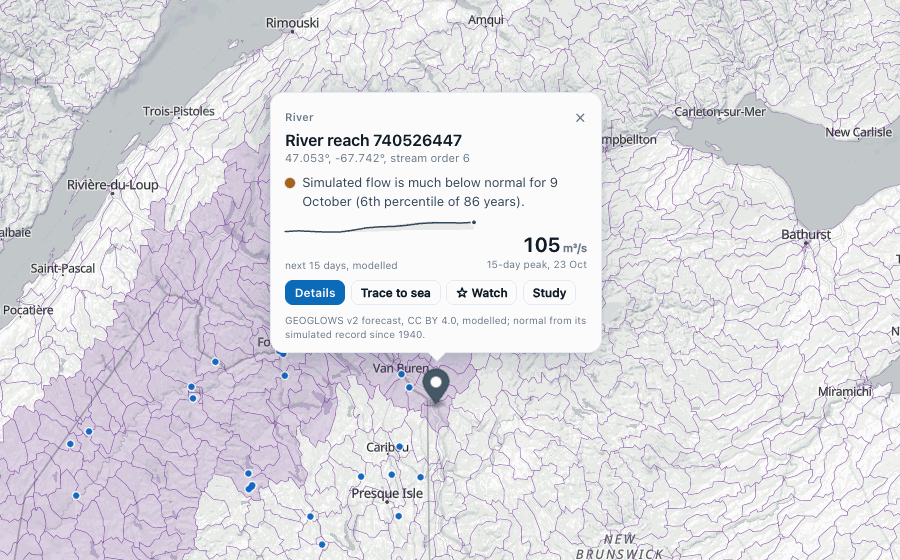
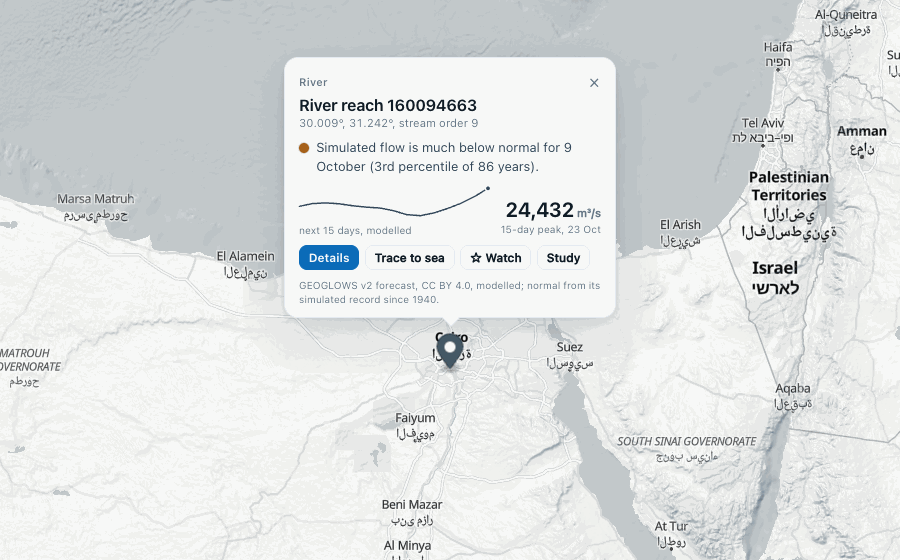
Map card: take the river a missed click names, forecast on its own range, Esc from map tools (#548)
A click that misses the river (no stream within 1 km, easy at a world zoom) now offers the larger or
nearest river in the card and takes it in one click (river.js takeOfferedReach, the offer's own path).
The nearest-gauge figure shows only within 50 km. The 15-day forecast sparkline is drawn on its own
range (at least a fifth of its peak), so a rise or fall shows instead of a flat line at the top. Escape
also closes the card from the map's own buttons (focus stays on the panel handle after folding), and
aria-describedby is removed rather than left empty.

diff --git a/explorer/src/map-card.js b/explorer/src/map-card.js
@@ -21,7 +21,7 @@ import { call, callLight } from "./worker-client.js?v=__BUILD__";
 import { ensureNowStatus } from "./now-map.js?v=__BUILD__";
 import { statusClass } from "./now-core.js?v=__BUILD__";
 import { snapLine } from "./river-core.js?v=__BUILD__";
-import { traceRiver } from "./river.js?v=__BUILD__";
+import { takeOfferedReach, traceRiver } from "./river.js?v=__BUILD__";
 import { shapeSvg } from "./shapes.js?v=__BUILD__";
 import {
   cardNumber, dayMonth, forecastPeak, lastDays, latestValue, placeCard, prettyUnit, snapshotSentence, sparkPaths,
@@ -31,6 +31,7 @@ const STATUS_VARIABLES = new Set(["discharge", "water_level", "groundwater_level
 const SNAPSHOT_CREDIT = "AquaScope daily status snapshot";
 const GEOGLOWS_SHORT = "GEOGLOWS v2 forecast, CC BY 4.0, modelled";
 const SHEET_QUERY = "(max-width: 640px)";
+const NEAR_GAUGE_KM = 50;   // past this the nearest gauge says nothing about the place, so the card leaves it out
 const reducedMotion = () => Boolean(globalThis.matchMedia && matchMedia("(prefers-reduced-motion: reduce)").matches);
 const sheetMode = () => !state.mapOk || Boolean(globalThis.matchMedia && matchMedia(SHEET_QUERY).matches);
 
@@ -58,7 +59,8 @@ const el = () => $("map-card");
  *   what, whatIcon,           the kicker above the title ("Gauge", "Flood cell") and an optional SVG
  *   title, sub,               the name and one muted line under it
  *   status: { text, color } | { pending: "Reading…" } | null     the sentence, with a class colour
- *   spark: { v, band: {lo, hi}, label } | { pending, label } | { empty: "why" } | null
+ *   spark: { v, band: {lo, hi}, label, fromZero } | { pending, label } | { empty: "why" } | null
+ *                             (fromZero: false scales a forecast to its own range; a record starts at zero)
  *   figure: { value, unit, label } | { pending } | null           the one key number
  *   note,                     an extra line (for example what a trace found)
  *   credit,                   where the numbers come from, with the licence
@@ -180,7 +182,8 @@ function render() {
     </div>
     ${s.credit ? `<p class="mc-credit">${escapeHtml(s.credit)}</p>` : ""}
     <span class="mc-tail" aria-hidden="true"></span>`;
-  card.setAttribute("aria-describedby", s.status && !s.status.pending ? "mc-status" : "");
+  if (s.status && !s.status.pending) card.setAttribute("aria-describedby", "mc-status");
+  else card.removeAttribute("aria-describedby");
   card.querySelector('[data-act="close"]').addEventListener("click", () => closeCard());
   const det = card.querySelector('[data-act="details"]');
   if (det) det.addEventListener("click", () => s.details());
@@ -203,7 +206,7 @@ function drawSpark() {
   if (!sp || !box || !sp.v) return;
   const w = Math.max(120, Math.round(box.clientWidth || 180));
   const h = 40;
-  const p = sparkPaths({ v: sp.v, band: sp.band || null }, { w, h, pad: 4 });
+  const p = sparkPaths({ v: sp.v, band: sp.band || null }, { w, h, pad: 4, fromZero: sp.fromZero !== false });
   if (!p) { box.outerHTML = `<p class="mc-spark-empty muted">Too few values to draw.</p>`; return; }
   box.innerHTML = `<svg width="${w}" height="${h}" viewBox="0 0 ${w} ${h}" aria-hidden="true">` +
     (p.band ? `<path class="mc-band" d="${p.band}"/>` : "") +
@@ -289,6 +292,7 @@ function keepAnchorAboveSheet() {
 
 // ── the selection's card: a gauge ───────────────────────────────────────────
 
+const distanceWords = (m) => (m >= 1000 ? `${(m / 1000).toFixed(1)} km` : `${Math.round(m)} m`);
 const coords = (lat, lon) => `${Number(lat).toFixed(3)}°, ${Number(lon).toFixed(3)}°`;
 
 function openDetails(surface, tab) {
@@ -501,14 +505,30 @@ function onSnap(m, snap) {
     return;
   }
   if (!snap.snapped) {
+    // No stream within the snap's reach of the click (easy at a world zoom): offer the river the snap found,
+    // in one click, rather than send the reader to the panel for it.
+    const which = snap.larger ? "larger" : snap.nearest ? "nearest" : null;
     const near = nearestGauge(m.lat, m.lon);
+    const take = which ? {
+      id: "reach", label: which === "larger" ? "Use the larger river" : "Use the nearest river",
+      title: `River reach ${snap[which].river_id}, ${distanceWords(snap[which].distance_m)} away`,
+      onClick: () => {
+        const reach = takeOfferedReach("pt", which);
+        if (!reach || model !== m) return;
+        onSnap(m, { snapped: true, river_id: reach.river_id, snap_lat: reach.lat, snap_lon: reach.lon,
+          strahler_order: reach.strahler_order });
+      },
+    } : null;
     updateCard(m.id, {
       status: { text: snapLine(snap), muted: true },
-      spark: { empty: "No mapped river here, so no river forecast. Details has the climate and the catchment." },
-      figure: near ? { value: near.d < 10 ? near.d.toFixed(1) : String(Math.round(near.d)), unit: " km",
+      spark: null,
+      // The nearest gauge, when it is near enough to matter.
+      figure: near && near.d <= NEAR_GAUGE_KM ? { value: near.d < 10 ? near.d.toFixed(1) : String(Math.round(near.d)), unit: " km",
         label: `to the nearest gauge, ${near.r.name || near.r.station_id}` } : null,
-      buttons: (m.spec.buttons || []).map((b) => (b.id === "trace" ? { ...traceButton("pt", { ready: false }), disabled: true,
-        title: "No river here to trace" } : b)),
+      buttons: [
+        ...(take ? [take] : []),
+        ...(m.spec.buttons || []).filter((b) => b.id !== "trace" && b.id !== "reach"),
+      ],
     });
     return;
   }
@@ -519,6 +539,9 @@ function onSnap(m, snap) {
     status: { pending: "Reading the 15-day forecast…" },
     credit: GEOGLOWS_SHORT,
     details: () => openDetails("panel-point", "now"),
+    // A reach taken from the offer above gets its Trace button back.
+    buttons: [traceButton("pt", { ready: Boolean(m.reach) }),
+      ...(m.spec.buttons || []).filter((b) => b.id !== "trace" && b.id !== "reach")],
   });
   void loadForecast(m, snap);
 }
@@ -536,7 +559,7 @@ async function loadForecast(m, snap) {
   if (g && !g.error && Array.isArray(g.mean)) {
     const peak = forecastPeak(g);
     updateCard(m.id, {
-      spark: { v: g.mean, band: { lo: g.p25 || [], hi: g.p75 || [] }, label: "next 15 days, modelled",
+      spark: { v: g.mean, band: { lo: g.p25 || [], hi: g.p75 || [] }, label: "next 15 days, modelled", fromZero: false,
         alt: "GEOGLOWS ensemble mean flow for the next 15 days, with the middle half of the ensemble shaded" },
       figure: peak ? { value: cardNumber(peak.value), unit: " m³/s", label: `15-day peak, ${dayMonth(peak.date, { short: true })}` } : null,
       status: { pending: "Comparing with this river's 86 simulated years…" },
@@ -634,7 +657,8 @@ export function initMapCard() {
   document.addEventListener("keydown", (e) => {
     if (e.key !== "Escape" || !shown) return;
     const a = document.activeElement;
-    const fromMap = !a || a === document.body || (a.closest && a.closest("#map"));
+    // ... and from the map's own buttons (the panel handle keeps focus after folding the panel).
+    const fromMap = !a || a === document.body || (a.closest && a.closest("#map, .map-tool"));
     if (!(card.contains(a) || fromMap)) return;
     e.preventDefault();
     closeCard();

diff --git a/explorer/src/map-card-core.js b/explorer/src/map-card-core.js
@@ -113,16 +113,27 @@ export const prettyUnit = (u) => ({ "m3/s": "m³/s", "ft3/s": "ft³/s" }[u] || u
 
 // The sparkline as SVG path data, in a `w` x `h` box with `pad` pixels kept clear at the top and bottom.
 // `line` is the series (gaps break it), `band` an optional {lo, hi} pair drawn as one filled shape, and
-// `area` the same line closed down to the bottom (for a record, which has no band). Values are scaled from
-// zero when they never go below it, so a dry spell sits low rather than filling the box.
-export function sparkPaths({ v = [], band = null }, { w = 240, h = 44, pad = 3 } = {}) {
+// `area` the same line closed down to the bottom (for a record, which has no band). A record is scaled from
+// zero when it never goes below it, so a dry spell sits low rather than filling the box. A forecast
+// (`fromZero: false`) is scaled to its own range, so its rise or fall shows rather than a flat line near the
+// top; the range is kept at least a fifth of the largest value, so a steady river is not drawn as a flood.
+export function sparkPaths({ v = [], band = null }, { w = 240, h = 44, pad = 3, fromZero = true } = {}) {
   const vals = v.map((x) => (finite(x) ? Number(x) : null));
   const all = vals.filter((x) => x !== null);
   if (band) for (const k of ["lo", "hi"]) for (const x of band[k] || []) if (finite(x)) all.push(Number(x));
   if (all.length < 2) return null;
   let lo = Math.min(...all);
-  const hi = Math.max(...all);
-  if (lo >= 0) lo = 0;
+  let hi = Math.max(...all);
+  if (fromZero && lo >= 0) lo = 0;
+  if (!fromZero) {
+    const least = Math.abs(hi) * 0.2;
+    if (hi - lo < least) {
+      const mid = (hi + lo) / 2;
+      lo = mid - least / 2;
+      hi = mid + least / 2;
+      if (lo < 0 && Math.min(...all) >= 0) { hi -= lo; lo = 0; }
+    }
+  }
   const span = hi - lo || 1;
   const n = vals.length;
   const x = (i) => (n === 1 ? w / 2 : (i * w) / (n - 1));

diff --git a/explorer/src/river.js b/explorer/src/river.js
@@ -144,6 +144,20 @@ function offerReach(t, reach, label, said) {
   where.append(" ", b);
 }
 
+// Take a reach the snap offered ("nearest" or "larger") from outside the panel: the map card's button (#548).
+// Does what the offer's own button does, and removes those buttons. Returns the reach, or null.
+export function takeOfferedReach(t, which) {
+  const r = runs[t];
+  const reach = r && r.snap && r.snap[which];
+  if (!reach) return null;
+  for (const where of [t === "pt" ? $("pt-snap") : null, part(t, "river-snap")]) {
+    if (where) where.querySelectorAll("button").forEach((x) => x.remove());
+  }
+  const said = which === "larger" ? `the larger river (order ${reach.strahler_order})` : "the nearest one mapped";
+  useReach(t, { river_id: reach.river_id, lat: reach.lat, lon: reach.lon, chosen: true, said });
+  return reach;
+}
+
 function useReach(t, reach) {
   const r = runs[t];
   r.reach = reach;

diff --git a/CHANGELOG.md b/CHANGELOG.md
@@ -8,7 +8,7 @@ All notable changes to AquaScope are documented here.
 ## [Unreleased]
 
 ### Added
-- **Map first: a click answers on the map** (#548, part of #543). A click on a gauge, a river or any place opens a small card anchored to it: the name, today against normal in one sentence (from the Archive's daily status snapshot, or ranked from the record, or for a river from its simulated record since 1940), one sparkline (the record's last 12 months, or the next 15 days from GEOGLOWS with the middle half of the ensemble shaded), one number (the newest value, or the forecast's peak) and **Details**, **Trace to sea**, **Watch** and **Study**. It fills as the answers arrive, never behind a wall of spinners, and every line says where it comes from. The side panel is folded away until **Details** opens it on the right tab, and a link with `tab=` still opens it there, as before. On a phone the card is a short sheet at the bottom; Escape closes it, focus moves into it, and it is labelled for a screen reader. Other map layers open a card with their own content through `openCard()` in `explorer/src/map-card.js`.
+- **Map first: a click answers on the map** (#548, part of #543). A click on a gauge, a river or any place opens a small card anchored to it: the name, today against normal in one sentence (from the Archive's daily status snapshot, or ranked from the record, or for a river from its simulated record since 1940), one sparkline (the record's last 12 months, or the next 15 days from GEOGLOWS with the middle half of the ensemble shaded), one number (the newest value, or the forecast's peak) and **Details**, **Trace to sea**, **Watch** and **Study**. A click that misses the river offers the river the snap found in one click. It fills as the answers arrive, never behind a wall of spinners, and every line says where it comes from. The side panel is folded away until **Details** opens it on the right tab, and a link with `tab=` still opens it there, as before. On a phone the card is a short sheet at the bottom; Escape closes it, focus moves into it, and it is labelled for a screen reader. Other map layers open a card with their own content through `openCard()` in `explorer/src/map-card.js`.
 
 ### Fixed
 - Record the verified v0.26.0 Zenodo DOI (`10.5281/zenodo.23246553`) in release citations, Explorer BibTeX and generated study reports; retain the concept DOI for the project as a whole.

diff --git a/docs/explorer.md b/docs/explorer.md
@@ -90,11 +90,16 @@ opens beside it, pointing at what you clicked:
   the Archive's daily status snapshot when the gauge is in it, else it is ranked from
   the record once that has loaded; for a river it comes from the reach's simulated
   record since 1940, and says simulated,
-- **one sparkline**: the record's last 12 months, or for a river the next 15 days
-  from GEOGLOWS (the line is the ensemble mean, the shading its middle half),
+- **one sparkline**: the record's last 12 months (from zero), or for a river the next
+  15 days from GEOGLOWS (the line is the ensemble mean, the shading its middle half,
+  drawn on its own range so a rise shows; the number beside it gives the size),
 - **one number**: the newest value and its day, or the forecast's peak and its day,
 - **Details** (the full panel, on the right tab), **Trace to sea** (draws the path on
   the map), **☆ Watch** and **Study**.
+
+A click that misses the river (no stream within 1 km, easy from far out) says how
+far the nearest and the larger river are, and **Use the larger river** (or **Use
+the nearest river**) takes it in one click.
 
 The card shows at once with what is known (the name and position) and fills as the
 answers arrive. Its last line says where the numbers come from. **Escape** or ×
